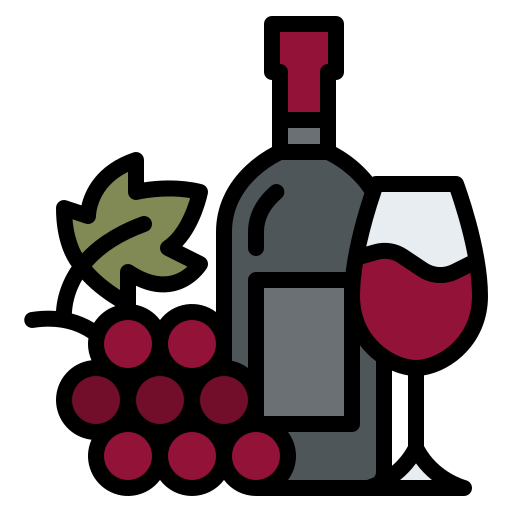
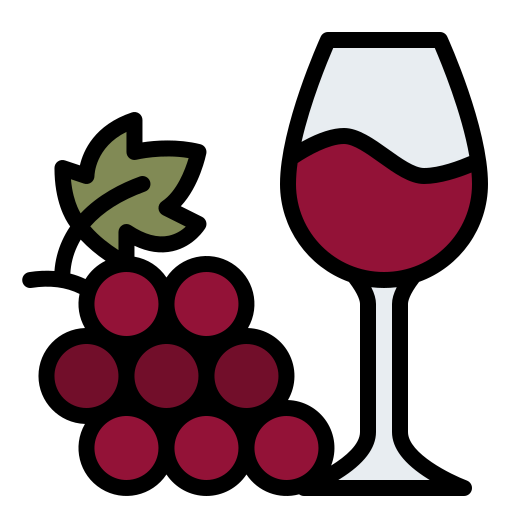
feat: troca o icone do site pela taca com uvas

diff --git a/frontend/index.html b/frontend/index.html
@@ -5,8 +5,8 @@
     <meta name="viewport" content="width=device-width, initial-scale=1.0" />
     <title>Smart Solutions — Monitoramento de Vinherias</title>
     <!-- Ícone da aba do navegador e do atalho no celular -->
-    <link rel="icon" type="image/png" href="/icone-vinheria.png" />
-    <link rel="apple-touch-icon" href="/icone-vinheria.png" />
+    <link rel="icon" type="image/png" href="/icone-vinheria.png?v=2" />
+    <link rel="apple-touch-icon" href="/icone-vinheria.png?v=2" />
   </head>
   <body>
     <div id="root"></div>
